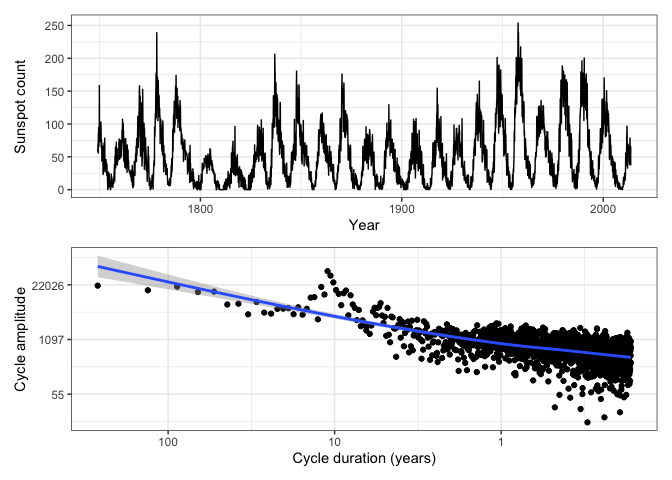
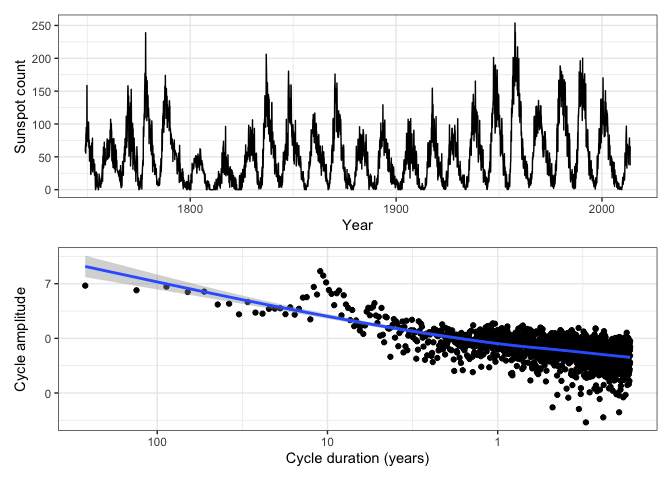
doc fixes

diff --git a/README.md b/README.md
@@ -12,6 +12,17 @@ The goal of tidyfft is to make working with fft’s in R easier and more
 consistent. It follows the tidy philosophy by storing output in a
 tibble.
 
+Features:
+
+1.  Provides frequencies in each dimension in cycles per
+    sample-interval.
+2.  Caches attributes sufficient to allow reconstruction of original
+    object when computing the inverse transform.
+3.  Tracks complex versus real valued input.
+4.  Computes the size-normalized forward transform.
+5.  Easy conversion between complex, rectangular, and polar
+    representations.
+
 ## Installation
 
 You can install the development version of tidyfft from
@@ -34,18 +45,18 @@ library(tidyfft)
     to_polr(.keep = "all") -> sunspot.month.fft
 )
 #> # A tibble: 3,177 × 6
-#>      dim_1 fx                          re      im     mod    arg
-#>      <dbl> <cpl>                    <dbl>   <dbl>   <dbl>  <dbl>
-#>  1 0       165092.2000+    0.000i 165092.      0  165092.  0    
-#>  2 0.00378  13876.3375+15850.464i  13876.  15850.  21066.  0.852
-#>  3 0.00755  -2733.7209+16131.802i  -2734.  16132.  16362.  1.74 
-#>  4 0.0113   -8428.2640-18110.753i  -8428. -18111.  19976. -2.01 
-#>  5 0.0151  -14755.1410- 1860.878i -14755.  -1861.  14872. -3.02 
-#>  6 0.0189   -7986.8153+12940.843i  -7987.  12941.  15207.  2.12 
-#>  7 0.0227   -2173.4245+ 7168.128i  -2173.   7168.   7490.  1.87 
-#>  8 0.0264   -3395.5271- 7055.326i  -3396.  -7055.   7830. -2.02 
-#>  9 0.0302     572.7342- 4329.374i    573.  -4329.   4367. -1.44 
-#> 10 0.0340    7811.7219- 3510.364i   7812.  -3510.   8564. -0.422
+#>      dim_1 fx                        re     im   mod    arg
+#>      <dbl> <cpl>                  <dbl>  <dbl> <dbl>  <dbl>
+#>  1 0       51.9648096+0.0000000i 52.0    0     52.0   0    
+#>  2 0.00378  4.3677486+4.9891293i  4.37   4.99   6.63  0.852
+#>  3 0.00755 -0.8604724+5.0776840i -0.860  5.08   5.15  1.74 
+#>  4 0.0113  -2.6529002-5.7005834i -2.65  -5.70   6.29 -2.01 
+#>  5 0.0151  -4.6443629-0.5857344i -4.64  -0.586  4.68 -3.02 
+#>  6 0.0189  -2.5139488+4.0732903i -2.51   4.07   4.79  2.12 
+#>  7 0.0227  -0.6841122+2.2562569i -0.684  2.26   2.36  1.87 
+#>  8 0.0264  -1.0687841-2.2207510i -1.07  -2.22   2.46 -2.02 
+#>  9 0.0302   0.1802752-1.3627241i  0.180 -1.36   1.37 -1.44 
+#> 10 0.0340   2.4588360-1.1049305i  2.46  -1.10   2.70 -0.422
 #> # ℹ 3,167 more rows
 ```
 
